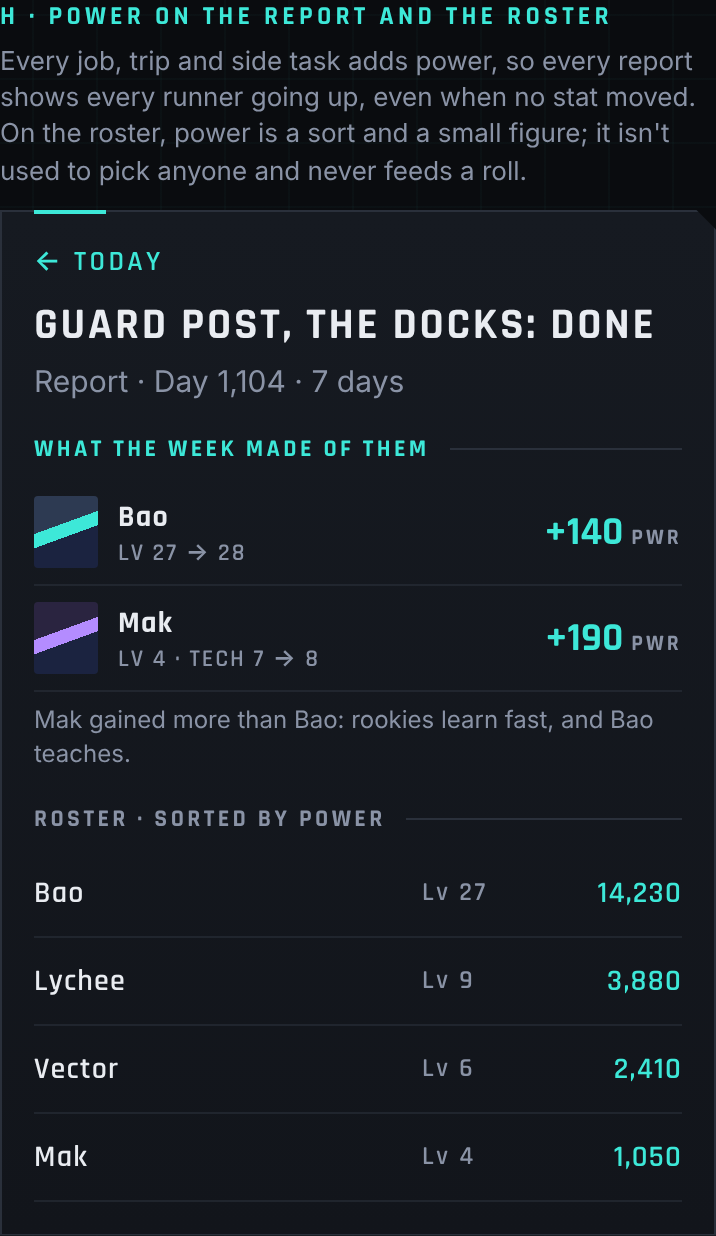
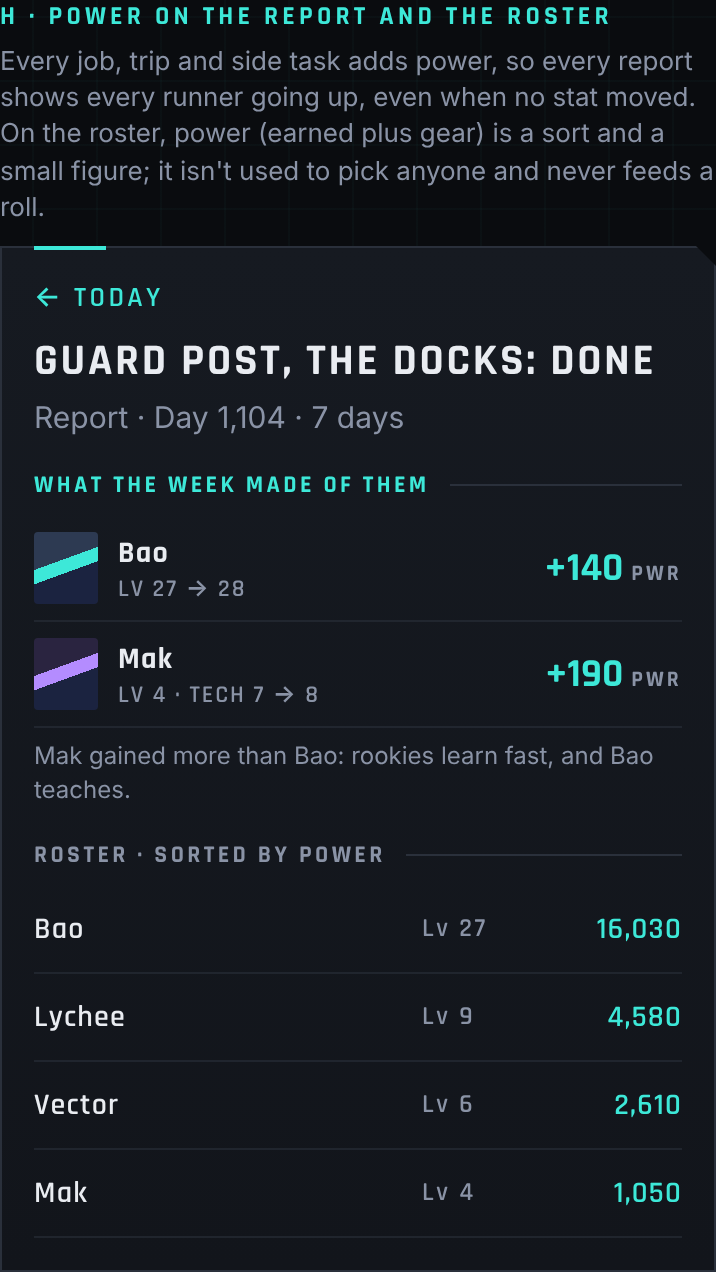
Mockup: power split into earned and gear; gear on and off; power under Joss's read on a job

diff --git a/docs/mockups/2026-11-26-late-game-runner.html b/docs/mockups/2026-11-26-late-game-runner.html
@@ -4,7 +4,7 @@
 <meta charset="utf-8">
 <meta name="viewport" content="width=device-width, initial-scale=1, viewport-fit=cover">
 <title>Late Game Runner</title>
-<!-- Mockup, 2026-11-26 (follows docs/mockups/2026-11-26-runner-levels.html): levels with no cap, veteran picks past 10, titles every fifth level, and power (lifetime experience, only rises, never read by a roll). Street-terminal tokens from docs/UI-SKIN.md. Not wired to the game; numbers and names are placeholders. -->
+<!-- Mockup, 2026-11-26 (follows docs/mockups/2026-11-26-runner-levels.html): levels with no cap, veteran picks past 10, titles every fifth level, and power (earned experience that never falls, plus gear on top; never read by a roll). Street-terminal tokens from docs/UI-SKIN.md. Not wired to the game; numbers and names are placeholders. -->
 <link rel="preconnect" href="https://fonts.googleapis.com">
 <link href="https://fonts.googleapis.com/css2?family=Rajdhani:wght@500;600;700&display=swap" rel="stylesheet">
 <style>
@@ -138,6 +138,22 @@ h1{font:700 22px var(--disp);letter-spacing:.08em;text-transform:uppercase;margi
 .rrow .rl{color:var(--muted);font-size:13px;letter-spacing:.1em}
 .rrow .rp{text-align:right;color:var(--accent-2)}
 .three{display:grid;gap:8px}
+.split{display:flex;gap:2px;height:6px;margin-top:6px}
+.split i{display:block}.split .e{background:var(--accent-2)}.split .g{background:#b48cff}
+.splitline{display:flex;justify-content:space-between;font:600 12px var(--disp);letter-spacing:.08em;text-transform:uppercase;color:var(--muted);margin-top:4px}
+.ce{color:var(--accent-2)}.cg{color:#b48cff}
+.gearrow{display:flex;gap:10px;align-items:center;min-height:52px;padding:8px 10px;border:1px solid var(--line);background:var(--panel);margin-top:8px}
+.gearrow .gi{flex:none;width:44px;height:22px;background:linear-gradient(90deg,#2a2440,#b48cff);clip-path:polygon(0 30%,70% 30%,70% 0,100% 0,100% 70%,30% 70%,30% 100%,0 100%)}
+.gearrow .gt{flex:1;font-size:14px}.gearrow .gt b{display:block;font:700 14px var(--disp);letter-spacing:.06em;text-transform:uppercase;color:#b48cff}
+.gearrow .gd{font:700 18px var(--disp)}
+.up{color:#b48cff}.down{color:var(--danger)}
+.jobcard{border:1px solid var(--line);background:var(--panel);padding:12px;margin-top:4px;clip-path:polygon(0 0,100% 0,100% calc(100% - 7px),calc(100% - 7px) 100%,0 100%)}
+.jobcard .jt{font:700 17px var(--disp);letter-spacing:.06em;text-transform:uppercase}
+.read{margin-top:10px;border-left:3px solid #ff9a5a;padding:6px 10px;background:rgba(255,154,90,.06)}
+.read .rk{font:700 12px var(--disp);letter-spacing:.16em;color:#ff9a5a}
+.read p{margin:2px 0 0;font-size:14px}
+.cpow{display:flex;justify-content:space-between;margin-top:10px;font:600 12px var(--disp);letter-spacing:.1em;text-transform:uppercase;color:var(--muted)}
+.cpow b{color:var(--text)}
 .three > div{border:1px solid var(--line);background:var(--panel);padding:10px 12px}
 .three .k{font:700 13px var(--disp);letter-spacing:.14em;color:var(--muted)}
 .three .k.cy2{color:var(--accent-2)}
@@ -148,7 +164,7 @@ h1{font:700 22px var(--disp);letter-spacing:.08em;text-transform:uppercase;margi
 <body>
 <div class="wrap">
   <h1>Late game: a runner at level 27, and power</h1>
-  <p class="lede">The owner's worry: ten levels go still in an endless save. Here the level keeps climbing with no cap; after 10 each level is a veteran's pick (sideways, not bigger dice), every fifth level a title. Beside it, power: one number for everything a runner has been through, which only goes up. Stats stay 1–20 for the rolls. Bao is a made-up veteran three in-game years in.</p>
+  <p class="lede">The owner's worry: ten levels go still in an endless save. Here the level keeps climbing with no cap; after 10 each level is a veteran's pick (sideways, not bigger dice), every fifth level a title. Beside it, power: everything a runner has been through (never falls), plus what they carry (moves with the gear). Stats stay 1–20 for the rolls. Bao is a made-up veteran three in-game years in.</p>
 
   <div class="grid">
 
@@ -163,7 +179,9 @@ h1{font:700 22px var(--disp);letter-spacing:.08em;text-transform:uppercase;margi
             <div class="role">Veteran · muscle · age 34</div>
             <div class="ttl">Old hand of the Docks</div></div>
           <div class="lv big"><small>LV</small><b>27</b></div></div>
-        <div class="pwr"><span class="k">POWER</span><span class="v">14,230</span><span class="d">+2,140 this season</span></div>
+        <div class="pwr"><span class="k">POWER</span><span class="v">16,030</span><span class="d">+2,140 earned this season</span></div>
+        <div class="split"><i class="e" style="flex:14230"></i><i class="g" style="flex:1800"></i></div>
+        <div class="splitline"><span><b class="ce">14,230</b> earned · never falls</span><span><b class="cg">1,800</b> gear</span></div>
         <div class="bar" style="margin-top:10px"><i class="on"></i><i class="on"></i><i class="on"></i><i class="on"></i><i class="on"></i><i class="on"></i><i class="on"></i><i></i><i></i><i></i><i></i><i></i></div>
         <div class="barline"><span>Level 27</span><span>Title at 30: <strong>3 levels</strong></span></div>
 
@@ -202,7 +220,7 @@ h1{font:700 22px var(--disp);letter-spacing:.08em;text-transform:uppercase;margi
     <!-- H -->
     <section>
       <p class="look">H · Power on the report and the roster</p>
-      <p class="why">Every job, trip and side task adds power, so every report shows every runner going up, even when no stat moved. On the roster, power is a sort and a small figure; it isn't used to pick anyone and never feeds a roll.</p>
+      <p class="why">Every job, trip and side task adds power, so every report shows every runner going up, even when no stat moved. On the roster, power (earned plus gear) is a sort and a small figure; it isn't used to pick anyone and never feeds a roll.</p>
       <div class="panel">
         <div class="back">← Today</div>
         <div class="title">Guard post, the Docks: done</div>
@@ -213,9 +231,9 @@ h1{font:700 22px var(--disp);letter-spacing:.08em;text-transform:uppercase;margi
         <p class="small" style="margin-top:6px">Mak gained more than Bao: rookies learn fast, and Bao teaches.</p>
 
         <div class="label">Roster · sorted by power</div>
-        <div class="rrow"><span class="rn">Bao</span><span class="rl">Lv 27</span><span class="rp">14,230</span></div>
-        <div class="rrow"><span class="rn">Lychee</span><span class="rl">Lv 9</span><span class="rp">3,880</span></div>
-        <div class="rrow"><span class="rn">Vector</span><span class="rl">Lv 6</span><span class="rp">2,410</span></div>
+        <div class="rrow"><span class="rn">Bao</span><span class="rl">Lv 27</span><span class="rp">16,030</span></div>
+        <div class="rrow"><span class="rn">Lychee</span><span class="rl">Lv 9</span><span class="rp">4,580</span></div>
+        <div class="rrow"><span class="rn">Vector</span><span class="rl">Lv 6</span><span class="rp">2,610</span></div>
         <div class="rrow"><span class="rn">Mak</span><span class="rl">Lv 4</span><span class="rp">1,050</span></div>
       </div>
     </section>
@@ -227,7 +245,7 @@ h1{font:700 22px var(--disp);letter-spacing:.08em;text-transform:uppercase;margi
       <div class="panel">
         <div class="title" style="margin-top:0">Bao: what the numbers mean</div>
         <div class="three">
-          <div><div class="k cy2">POWER · 14,230</div><p>Everything Bao has been through. Only goes up. Says nothing about how good Bao is today.</p><div class="tag">new · shown</div></div>
+          <div><div class="k cy2">POWER · 16,030</div><p><b class="ce">14,230 earned</b>: everything Bao has been through; never falls. <b class="cg">1,800 gear</b>: what Bao carries today; moves with the kit. A record, not a judge.</p><div class="tag">new · shown</div></div>
           <div><div class="k">FAME · RESPECTED</div><p>What the city thinks. Rises with big jobs, fades with time off. Already in the game.</p><div class="tag">exists · shown</div></div>
           <div><div class="k">RATING</div><p>How good Bao really is now, 0–100. Used by the Book and the other tongs. Never shown (a deliberate choice).</p><div class="tag">exists · hidden</div></div>
         </div>
@@ -235,11 +253,42 @@ h1{font:700 22px var(--disp);letter-spacing:.08em;text-transform:uppercase;margi
       </div>
     </section>
 
+    <!-- J -->
+    <section>
+      <p class="look">J · Gear on, gear off</p>
+      <p class="why">The jump when better gear goes on, in the gear's tier colour. When gear comes off only the gear part drops, and the line says why, so the earned part never looks like it went backwards.</p>
+      <div class="panel">
+        <div class="back">← Lychee</div>
+        <div class="title">Gear</div>
+        <p class="sub">Power 4,080 → 4,580</p>
+        <div class="gearrow"><span class="gi"></span><span class="gt"><b>Premium rifle</b>Two extras. Equipped.</span><span class="gd up">+700</span></div>
+        <div class="gearrow"><span class="gi" style="background:linear-gradient(90deg,#1c2a24,#5fe0a5)"></span><span class="gt"><b style="color:#5fe0a5">Verified vest</b>Moved to Mak.</span><span class="gd down">−200</span></div>
+        <div class="split" style="margin-top:14px"><i class="e" style="flex:3580"></i><i class="g" style="flex:1000"></i></div>
+        <div class="splitline"><span><b class="ce">3,580</b> earned</span><span><b class="cg">1,000</b> gear</span></div>
+        <p class="small" style="margin-top:8px">Per item, by tier: Standard 0 · Verified 200 · Custom 400 · Premium 700 · Apex 1,200, and a little per extra.</p>
+      </div>
+    </section>
+
+    <!-- K -->
+    <section>
+      <p class="look">K · On a job card: Joss's read leads</p>
+      <p class="why">If power shows on a job at all, it sits under Joss's read and never argues with it. Here a strong crew still reads risky, because the job wants quiet hands and nobody on it has them.</p>
+      <div class="panel">
+        <div class="back">← Jobs</div>
+        <div class="title">Squad board</div>
+        <div class="jobcard"><div class="jt">The Test Rota</div><div class="small">Threat 3 · social, tech, stealth · Old Town</div>
+          <div class="read"><div class="rk">JOSS · RISKY</div><p>"Bao and Vector can hold a door. Nobody here can do quiet, and this one's all quiet."</p></div>
+          <div class="cpow"><span>Crew power <b>18,640</b></span><span>Swap in Lychee →  Joss: fair</span></div>
+        </div>
+        <p class="small" style="margin-top:10px">No "recommended power" on jobs: the threat level and Joss's read already say it, from the stats the job actually needs.</p>
+      </div>
+    </section>
+
   </div>
 
   <ul class="notes">
-    <li><strong>Power</strong> is the lifetime total of the raw growth <code>gainXp</code> hands out (jobs, trips, side work), times ten so it reads as a big number. It never falls, isn't used for any roll, pick or pay, and costs one field on each runner (a save bump).</li>
-    <li><strong>The level comes from power</strong>: each level costs a bit more power than the last, so a runner who lasts years reaches 30 to 40. One number underneath, two ways to show it.</li>
+    <li><strong>Power = earned + gear.</strong> Earned is the lifetime total of the raw growth <code>gainXp</code> hands out (jobs, trips, side work), times ten; it never falls and costs one field on each runner (a save bump). Gear is worked out from what they carry, by tier (<code>data/gear.js TIERS</code>), never saved. Neither part is used for any roll, pick, pay or forecast.</li>
+    <li><strong>The level comes from earned power only</strong> (gear can't give a level): each level costs a bit more power than the last, so a runner who lasts years reaches 30 to 40. One number underneath, two ways to show it.</li>
     <li><strong>Levels 11+</strong> give veteran's picks: small and sideways (a district or kind-of-work edge with a cap, teaching, keeping a trait, slow growth past a wall). They need writing; start with a short repeatable list.</li>
     <li><strong>The hidden rating stays hidden</strong> (<code>core/rating.js</code>: "never shown"). Power isn't the rating: two runners with the same power can be very different today, and the scout's words still say how good someone is.</li>
     <li>Names (power, titles, the picks) are placeholders; final words go through <code>WRITING_GUIDE.md</code>.</li>
